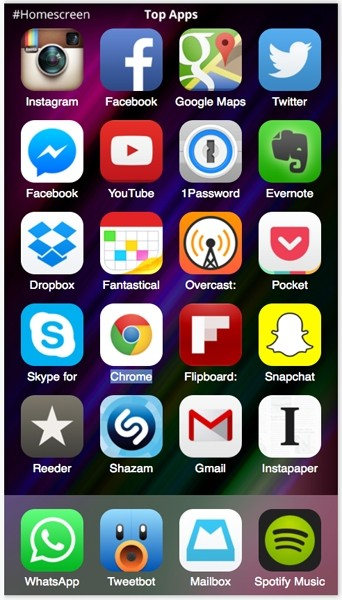
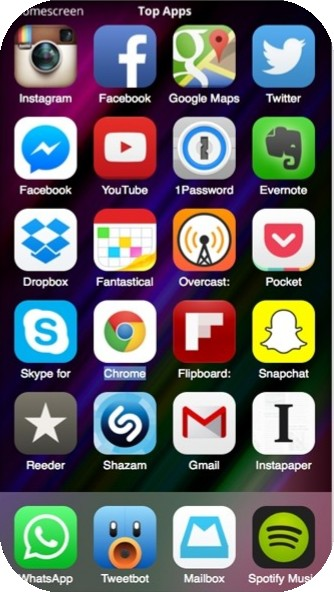
feito
feito

diff --git a/home.html b/home.html
@@ -14,7 +14,7 @@
     body{ 
         width: 100vw;
         height: 100vh;
-        background: black url(imagens/tela_2.jpg) no-repeat top center;
+        background: black url(imagens/tela_2.png) no-repeat top center;
         background-size: cover;
     }
 </style>

diff --git a/style.css b/style.css
@@ -40,10 +40,10 @@ section#telefone {
 
 iframe#tela {
     position: relative;
-    top: 19px;
+    top: 25px;
     left: 62px;
-    width: 238px;
-    height: 515px;
+    width: 235px;
+    height: 505px;
 }
 
 section#redes-sociais{
